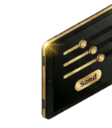
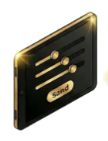
fix: restore full unclipped 3D process step illustrations with seamless borders

diff --git a/src/components/StepProcess.jsx b/src/components/StepProcess.jsx
@@ -69,12 +69,12 @@ export default function StepProcess() {
             >
               <div>
                 {/* 3D Illustration Container */}
-                <div className="h-28 sm:h-32 mb-4 rounded-xl bg-slate-950/60 border border-slate-800/60 flex items-center justify-center relative p-3 overflow-hidden group-hover:border-amber-500/30 transition-colors">
+                <div className="h-32 sm:h-36 mb-4 rounded-2xl bg-slate-950/70 border border-slate-800/80 flex items-center justify-center relative p-3.5 group-hover:border-amber-500/40 transition-colors overflow-hidden">
                   {/* Subtle warm glow behind icon */}
-                  <div className="absolute inset-0 bg-gradient-to-b from-amber-500/5 to-transparent pointer-events-none" />
+                  <div className="absolute inset-0 bg-gradient-to-b from-amber-500/10 via-transparent to-transparent pointer-events-none" />
                   
                   {/* Step Number Badge */}
-                  <span className="absolute top-2 left-2 w-6 h-6 rounded-md bg-amber-500 text-slate-950 font-black text-xs flex items-center justify-center shadow-md">
+                  <span className="absolute top-2.5 left-2.5 w-6 h-6 rounded-md bg-amber-500 text-slate-950 font-black text-xs flex items-center justify-center shadow-md z-10">
                     {step.num}
                   </span>
 
@@ -82,7 +82,7 @@ export default function StepProcess() {
                   <img
                     src={step.image}
                     alt={step.title}
-                    className="h-full w-auto max-w-[85%] object-contain drop-shadow-[0_8px_16px_rgba(0,0,0,0.6)] group-hover:scale-110 transition-transform duration-500"
+                    className="max-h-[82%] max-w-[88%] w-auto h-auto object-contain drop-shadow-[0_8px_16px_rgba(0,0,0,0.7)] group-hover:scale-105 transition-transform duration-500"
                     loading="lazy"
                   />
                 </div>
